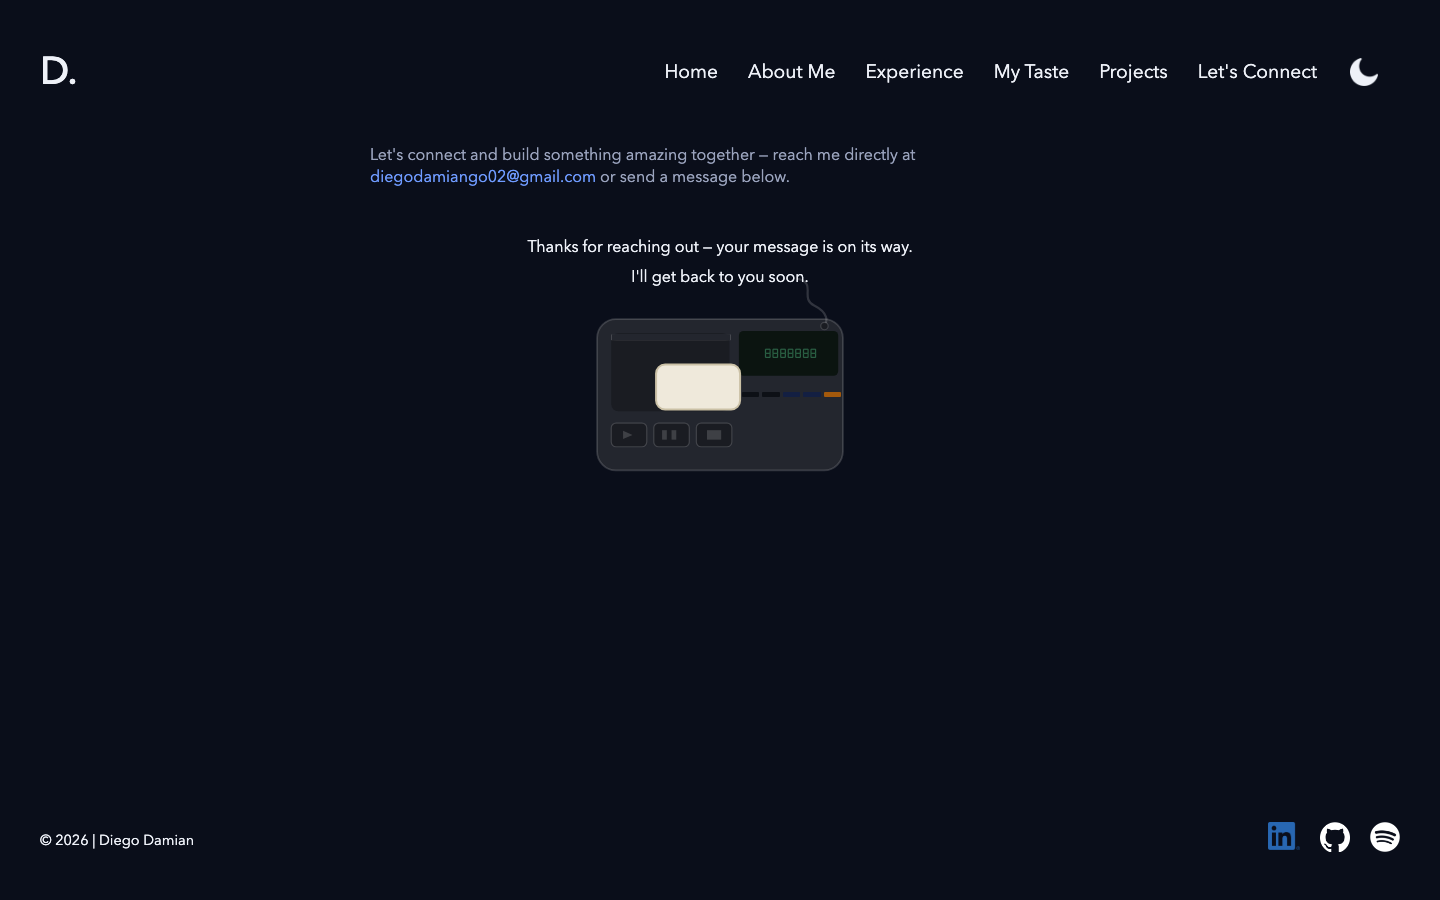
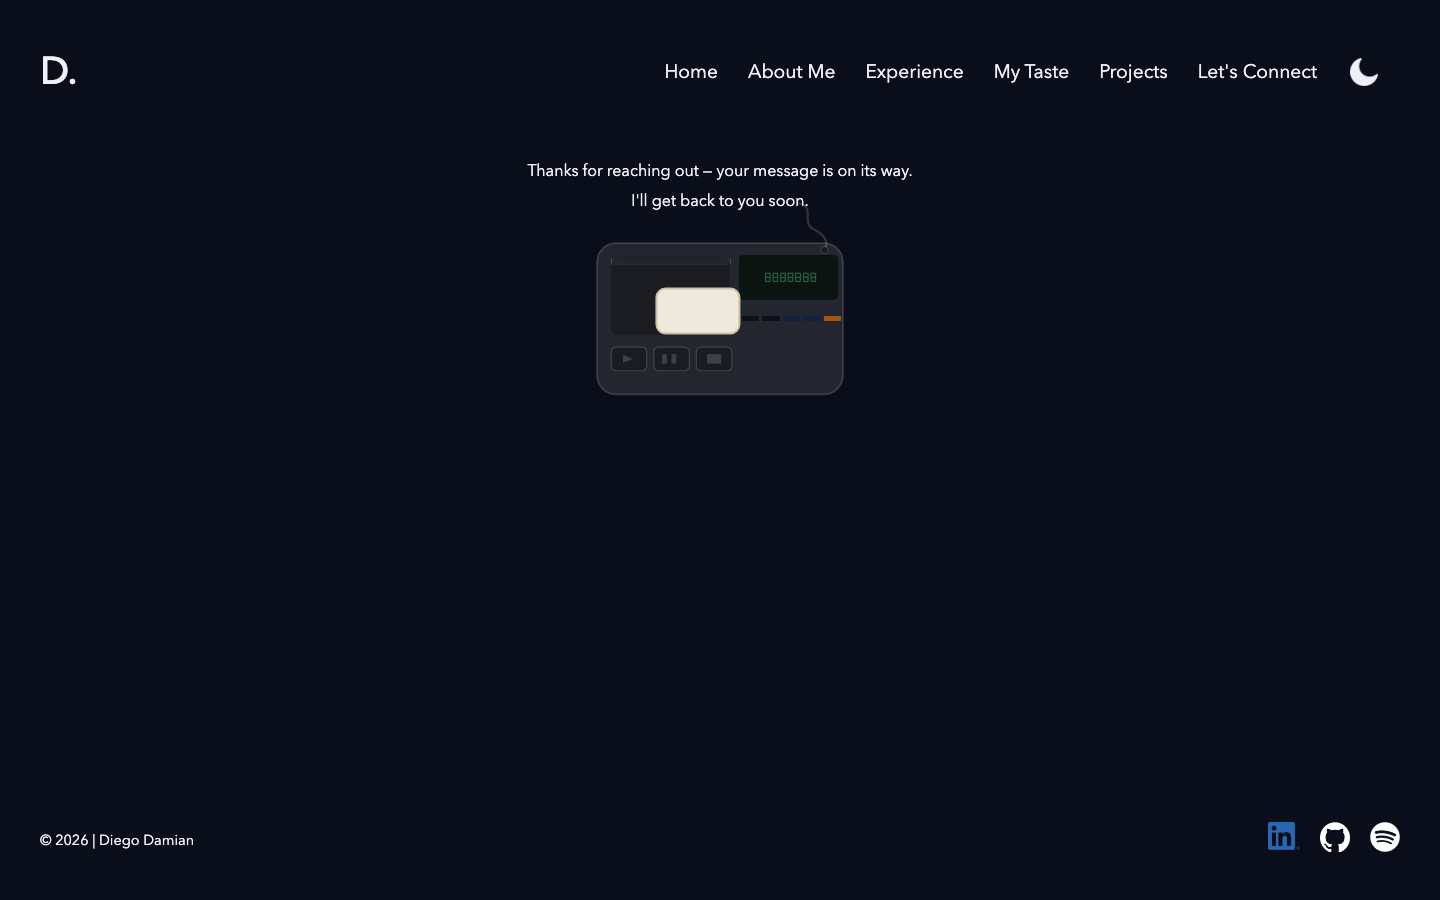
fix: #connect heading copy, entry-pin dead-scroll, textarea overflow (Stage 3 Task 12.2)
- Heading: "Let's have a coffee talk" -> "Let's Connect"; description
  paragraph (and its mailto: link) removed entirely, no replacement copy.
  Its SplitText step in the entry-pin reveal removed too, not just hidden.
  While touching .contact-title: margin-bottom 1rem -> --space-6 (heading
  now stands alone), and fixed the long-flagged font-weight: 60 -> 600 typo.

- B41: the entry-pin's ScrollTrigger had no explicit `end`, defaulting to
  the trigger's own full height and leaving .contact-section visually
  pinned for ~938px of dead scroll after the reveal had already finished
  and lenis.start() had already resumed input -- measured directly
  (scrollY vs. the section's own bounding rect on every tick). My Taste's
  own pin, the pattern this section's comments already credit, sets
  `end: "+=200"` for exactly this reason; this section never copied it.
  Fixed by adding the same value. Dead scroll now ~340px (the genuinely
  expected remainder, not a leftover bug).

- B42: .message-cassette textarea rendered 24px wider than its own
  cassette container -- no global box-sizing: border-box reset exists in
  this file, so width: 100% plus the textarea's own padding overflowed the
  box by exactly that padding, worse after Task 12.1's own padding
  increase (a smaller version of the same bug existed since Task 12
  shipped). Fixed with one line; the focus outline now sits fully inside
  the cassette on every side.
[…]

Changed region(s): [[0.25, 0.1556, 0.625, 0.5289]]

diff --git a/client/src/sections/connect.jsx b/client/src/sections/connect.jsx
@@ -114,7 +114,6 @@ export default function Connect() {
     const rootRef = useRef(null);
     const containerRef = useRef(null);
     const titleRef = useRef(null);
-    const descriptionRef = useRef(null);
     const cassetteRef = useRef(null);
     const flightRef = useRef(null);
     const walkmanRootRef = useRef(null);
@@ -182,13 +181,6 @@ export default function Connect() {
 
         mm.add('(prefers-reduced-motion: no-preference)', () => {
             const titleSplit = new SplitText(titleRef.current, { type: 'words' });
-            // type: "words" — same reasoning My Taste's own kicker comment
-            // gives: this description's text nodes wrap an inline
-            // `<a href="mailto:...">`; word-splitting only touches TEXT,
-            // leaving the link's own element untouched (still one real,
-            // clickable `<a>` after SplitText reverts), rather than risking
-            // "lines" or "chars" tearing into or duplicating it.
-            const descriptionSplit = new SplitText(descriptionRef.current, { type: 'words' });
             // The compose box, batched as one stagger group rather than
             // individually SplitText'd — these are form CONTROLS, not text
             // to fragment. `.contact-hp` (the honeypot) is deliberately
@@ -222,8 +214,7 @@ export default function Connect() {
             // SIGNATURE_EASE curve every calm, one-time entrance on this
             // site already shares.
             tl.from(titleSplit.words, { opacity: 0, y: 16, duration: 0.5, ease: SIGNATURE_EASE, stagger: 0.06 }, 0);
-            tl.from(descriptionSplit.words, { opacity: 0, y: 12, duration: 0.4, ease: SIGNATURE_EASE, stagger: 0.02 }, '>+=0.2');
-            tl.from(formTargets, { opacity: 0, y: 14, duration: 0.4, ease: SIGNATURE_EASE, stagger: 0.08 }, '>+=0.25');
+            tl.from(formTargets, { opacity: 0, y: 14, duration: 0.4, ease: SIGNATURE_EASE, stagger: 0.08 }, '>+=0.2');
 
             const navbarHeight = () =>
                 parseFloat(getComputedStyle(document.documentElement).getPropertyValue('--navbar-height')) || 0;
@@ -235,6 +226,22 @@ export default function Connect() {
                 // Taste/Experience) — keeps a nav click landing on #connect
                 // and this pin's own engage point in sync.
                 start: () => 'top top+=' + navbarHeight(),
+                // Missing here originally — found live (measured: after the
+                // hold released, .contact-section stayed visually pinned for
+                // ~940px of further scroll before it would budge at all, the
+                // real cause of "all the space" between #projects and a
+                // usable #connect). Root cause: `pin: true` with no explicit
+                // `end` defaults to the trigger's own full height as the pin
+                // span, but nothing here scrubs against that span — the hold
+                // is timed via lenis.stop()/start() below, same as My
+                // Taste's own pin (my-taste.jsx). My Taste's own version
+                // already sets `end: "+=200"` for exactly this reason (its
+                // own comment: wide enough that a fast scroll can't jump the
+                // start-to-end span in one tick and skip onEnter entirely,
+                // not a hold-duration control) — this pin copied `pin: true`
+                // from that pattern but dropped the `end` that comes with
+                // it. Same fix, same value.
+                end: '+=200',
                 pin: true,
                 // Plays once per page view, same as About/My Taste's own
                 // hold — replaying a scroll-hold every time a visitor
@@ -256,7 +263,7 @@ export default function Connect() {
 
                     // Same safety net About's own hold carries: measured
                     // against the CONTAINER's real content height
-                    // (title + description + form), not the outer
+                    // (title + form, no description anymore), not the outer
                     // .contact-section shell — that shell is deliberately
                     // taller than its content on most viewports (flex-
                     // centered inside a navbar-aware min-height floor, see
@@ -319,7 +326,6 @@ export default function Connect() {
                 st.kill();
                 tl.kill();
                 titleSplit.revert();
-                descriptionSplit.revert();
             };
         });
 
@@ -583,11 +589,7 @@ export default function Connect() {
                 read it — that's a one-time scroll-entry transition, unrelated
                 to send state. */}
             <div className="contact-container" data-state={status} ref={containerRef}>
-                <h2 className="contact-title" ref={titleRef}>Let&apos;s have a coffee talk</h2>
-                <p className="contact-description" ref={descriptionRef}>
-                    Let&apos;s connect and build something amazing together — reach me directly at{' '}
-                    <a href="mailto:diegodamiango02@gmail.com">diegodamiango02@gmail.com</a> or send a message below.
-                </p>
+                <h2 className="contact-title" ref={titleRef}>Let&apos;s Connect</h2>
 
                 {status === 'sent' ? (
                     <div className="contact-success" role="status">

diff --git a/client/src/styles/main.scss b/client/src/styles/main.scss
@@ -3354,19 +3354,18 @@ html {
 
 .contact-title {
   font-size: 2.5rem;
-  font-weight: 60;
-  margin-bottom: 1rem;
+  // Was `60` — a typo for `600` already flagged in ROADMAP.md/STATUS.md
+  // (Stage 3 Q1/Q4 notes) but never actually corrected until now. Fixing
+  // it here since this heading carries more visual weight on its own now
+  // that .contact-description is gone (below).
+  font-weight: 600;
+  // Was 1rem, tuned for a heading sitting right above a description
+  // paragraph. With that paragraph removed, the form now sits directly
+  // under the heading — 1rem read as cramped, so this grew to
+  // `--space-6`, the same margin-bottom `@mixin section-title` (used by
+  // `.portfolio-title`) already gives a standalone section heading.
+  margin-bottom: var(--space-6);
   text-align: center;
-}
-
-.contact-description {
-  font-size: 1rem;
-  margin-bottom: 3rem;
-  color: var(--secondary-text);
-}
-
-.contact-description a {
-  color: var(--accent);
 }
 
 .contact-form {
@@ -3593,6 +3592,15 @@ html {
 .message-cassette textarea {
   display: block;
   width: 100%;
+  // No global box-sizing reset exists in this file (opt-in per rule — see
+  // .portfolio-section's own comment on the same pattern). Without this,
+  // `width: 100%` resolves against the cassette's own content-box width,
+  // and this element's OWN padding (below) is added ON TOP of that —
+  // measured live: the textarea rendered 24px wider than `.message-
+  // cassette` itself (exactly 2x its own horizontal padding), visibly
+  // overflowing the cassette's right edge, worse still once the focus
+  // outline added its own few px on top of that.
+  box-sizing: border-box;
   background: transparent;
   color: var(--cassette-label-text);
   border: none;

diff --git a/design-review/STATUS.md b/design-review/STATUS.md
@@ -1,6 +1,6 @@
 # Project Status — diegodamian.com
 
-**Updated:** 2026-08-23 (Stage 3 Task 12.1) · **HEAD:** `2f6d11f`+ · **Live:** https://diegodamian.com
+**Updated:** 2026-08-23 (Stage 3 Task 12.2) · **HEAD:** `913169a`+ · **Live:** https://diegodamian.com
 
 Companion to [`FINDINGS.md`](./FINDINGS.md) (design analysis) and
 [`ROADMAP.md`](./ROADMAP.md) (order of work). This file covers **where the project
@@ -2787,6 +2787,66 @@ flagged here rather than silently trusted. `npm run build`: JS 525.44 ->
 -> **10.56 kB** gz) — negligible, as expected for a layout/copy pass with no
 new dependencies.
 
+### Stage 3 Task 12.2 — `#connect`: heading copy, dead-scroll fix, textarea overflow fix *(2026-08-23)*
+
+A second decimal follow-up on Task 12's own feature (sibling to 12.1, same
+convention as 10.1/10.2 both being decimals off Task 10 rather than 12.1
+growing a sub-decimal of its own). Re-read `connect.jsx`/`main.scss` fresh
+rather than assuming Task 12.1 was the last word on this section.
+
+**Copy:** `.contact-title` — "Let's have a coffee talk" -> "Let's Connect."
+`.contact-description` (the paragraph under it, including the inline
+`mailto:` link) removed entirely, per direct instruction — no replacement
+copy added. Its own `SplitText` step in the entry-pin's reveal timeline
+(`descriptionSplit`) is gone too, not just hidden — `titleSplit` now hands
+off straight to the form. `.contact-title`'s own `margin-bottom` grew
+`1rem` -> `--space-6` (32px) since the heading now sits directly above the
+form with nothing bridging the gap — `1rem` read as cramped alone. While
+in that rule: fixed `font-weight: 60` -> `600`, a typo already flagged in
+ROADMAP.md/STATUS.md (Q1/Q4 notes) as "almost certainly a dropped digit"
+but never actually corrected until this pass touched the same line.
+
+**B41 — the real "space between projects and Connect" (`FINDINGS.md` B41):**
+this section's entry-pin `ScrollTrigger.create` never set an explicit
+`end`; with none given, GSAP defaults the pin span to the trigger's own
+full height (~916px), so the section stayed visually pinned for that whole
+span even after the reveal timeline finished and `lenis.start()` already
+resumed real scroll input. Measured directly (scrollY vs. the section's
+own `getBoundingClientRect().top` on every scroll tick): **938px of dead
+scroll** before the page would budge at all. My Taste's own pin — the
+pattern this section's comments already credit — sets `end: "+=200"` for
+an unrelated reason (protecting `onEnter` from a fast-scroll momentum jump
+skipping past a too-thin span, not controlling hold duration); this
+section copied `pin: true` from that pattern but not the `end` that comes
+with it. Fixed by adding the same `end: '+=200'`. Re-measured: dead scroll
+dropped to ~340px (the real, expected distance to scroll the now-revealed
+section out of view — not a leftover bug).
+
+**B42 — the message box's own border rendering bigger than the box
+(`FINDINGS.md` B42):** `.message-cassette textarea` sets `width: 100%`
+without opting into `box-sizing: border-box` (no global reset exists in
+this file — `.portfolio-section`'s own comment documents the identical
+gotcha independently). Under the default `content-box` model the
+textarea's own padding is added ON TOP of that 100%, not carved from it —
+measured 704px rendered against a 700px-wide cassette, a 14px overflow
+before the focus outline even drew its own few px on top. This was already
+a smaller version of the same bug since Task 12 shipped (16px overflow at
+the original 8px padding) — Task 12.1's own padding increase (8px -> 12px)
+made it worse, not new. Fixed with one line (`box-sizing: border-box`);
+re-measured textarea width now matches the cassette's own 680px
+content-box exactly, confirmed via a 2x-scale screenshot that the focus
+outline sits fully inside the cassette on every side.
+
+**Verification:** same dev pair (5173/5050), same human-paced scroll (D17
+re-confirmed still pre-existing, hit once more under this task's own
+testing, unrelated). Full send sequence re-run end to end (walkman still
+pops, "CHEERS!" still resolves), reduced-motion path re-run (still
+resolves instantly, no scramble). `npm run lint`: **7 errors, 2 warnings**,
+unchanged. `npm run build`: JS 525.49 -> **525.08 kB** (187.22 ->
+**187.07 kB** gz), CSS 50.17 -> **50.08 kB** (10.56 -> **10.54 kB** gz) — a
+net decrease, expected: this pass removed more markup/CSS (the description
+paragraph and its two rules, the SplitText step) than the fixes added.
+
 ### Stage 4 (`#my-taste`) — task numbering, consolidated
 
 The dated entries below run 1 → 2 → 2.5 → 3 → 3.5 → 3.6 → 3.8 → 3.7 → 3.7 follow-up →
@@ -3974,8 +4034,8 @@ crate too, not just `#my-taste`.
 |---|---|---|
 | Deploy size | 152 MB | **9.6 MB** |
 | Images | 11 MB | **1.7 MB** |
-| JS bundle | 407 KB / 147 KB gz | **525.49 kB / 187.22 kB gz** *(+21 kB / +7.5 kB gz vs. pre-Stage-3-Task-10 baseline — GSAP `Flip`, first use; Tasks 10.1/11/10.2/11.2/12/12.1 added +6.72 kB / +2.09 kB gz combined on top, almost all of it Task 12's own walkman sequence — 12.1 itself added ~0.05 kB, a layout/copy pass with no new dependency)* |
-| CSS bundle | 26.96 kB / 5.99 kB gz | **50.17 kB / 10.56 kB gz** *(Task 12 added +4.05 kB / +0.90 kB gz for the cassette/walkman rules; 12.1's own field/textarea rebalance added +0.08 kB / +0.02 kB gz on top. The two self-hosted DSEG7 font files, ~9.6 kB combined woff2+woff, are separate font assets, not counted in this CSS number)* |
+| JS bundle | 407 KB / 147 KB gz | **525.08 kB / 187.07 kB gz** *(+21 kB / +7.5 kB gz vs. pre-Stage-3-Task-10 baseline — GSAP `Flip`, first use; Tasks 10.1/11/10.2/11.2/12/12.1/12.2 added +6.31 kB / +1.94 kB gz combined on top, almost all of it Task 12's own walkman sequence — 12.2 itself is a net DECREASE, ~0.41 kB, since it removed more than it added: the description paragraph, its two CSS rules and its `SplitText` step)* |
+| CSS bundle | 26.96 kB / 5.99 kB gz | **50.08 kB / 10.54 kB gz** *(Task 12 added +4.05 kB / +0.90 kB gz for the cassette/walkman rules; 12.1 added +0.08 kB / +0.02 kB gz; 12.2 removed the two now-dead `.contact-description` rules, a net -0.09 kB. The two self-hosted DSEG7 font files, ~9.6 kB combined woff2+woff, are separate font assets, not counted in this CSS number)* |
 | ESLint errors | 21 | **7** *(+2 warnings, both `vinyl-record.jsx` — expected, see Stage 4 Tasks 1 and 3.6)* |
 | `.git` size | 91 MB | **177 MB** *(grew, not unchanged — re-measured, not assumed stale. This session alone added many commits with binary screenshot diffs, each one a new object in history regardless of the PNG file's own current size. Strengthens, not just restates, the case for the Stage 8 history rewrite — see ROADMAP.md §0/§3, now also motivated by the resume PDF's privacy removal, not size alone)* |
 

diff --git a/design-review/FINDINGS.md b/design-review/FINDINGS.md
@@ -1806,6 +1806,65 @@ against a 103px-wide screen box (comfortable margin, not a near-miss), and
 the ghost layer (derived automatically from the same string) lines up
 character-for-character as designed.
 
+### B41 — `#connect`'s entry pin had no explicit `end`, leaving ~940px of dead scroll after the reveal released — **FOUND AND FIXED, Stage 3 Task 12.2**
+
+Reported as "all the space in between projects and Let's Connect." Measured
+directly rather than guessed: scrolled to `#connect`, let the entry-pin
+reveal finish, then sampled `.contact-section`'s own `getBoundingClientRect().top`
+against `window.scrollY` on every following scroll tick. `top` stayed
+pinned at a constant value (`navbarHeight`, ~144px) while `scrollY` climbed
+from 6534 to 7472 — **938px of scroll where the section visually never
+moved at all**, well after the reveal timeline itself had already
+completed and `lenis.start()` had already resumed real scroll input.
+
+Root cause: this pin's `ScrollTrigger.create({ ... pin: true, once: true,
+... })` (`connect.jsx`) never set an explicit `end`. With none given, GSAP
+defaults the pin's own scroll-span to the trigger element's full height —
+here, `.contact-section`'s own ~916px — so ScrollTrigger kept the section
+visually pinned for that entire span regardless of the fact that nothing
+in this pin scrubs against it; the hold's real duration is governed
+entirely by `lenis.stop()`/`lenis.start()`, independent of `end`. My
+Taste's own pin (`my-taste.jsx`), which this section's comments already
+credit as the pattern being followed, sets `end: "+=200"` for exactly this
+reason (its own comment: wide enough that a fast scroll can't jump the
+`start`-to-`end` span in one tick and skip `onEnter` entirely — not a
+hold-duration control). This section copied `pin: true` from that pattern
+but never copied the `end` that comes with it.
+
+Fixed by adding the same `end: '+=200'`. Re-measured with the identical
+method: the dead zone dropped from ~938px to ~340px (the remaining
+distance is real, expected scroll — clearing the now-revealed section
+before the next one comes into view — not a leftover bug). Re-verified the
+pin still engages correctly under normal scroll and still resolves
+instantly under a programmatic nav-click (`isProgrammaticScrollActive()`),
+neither of which reads `end` for anything.
+
+### B42 — `.message-cassette textarea` overflowed its own cassette by exactly its own padding — **FOUND AND FIXED, Stage 3 Task 12.2**
+
+Reported as "the border of the text box is bigger than the box itself"
+when focused. Measured directly: `.message-cassette` (the visible tape
+label) rendered 700px wide; `#message` (the textarea inside it) rendered
+**704px** wide — 14px past the cassette's own right edge before any
+outline was even drawn, then a further few px once the focus outline
+(`outline: 2px solid ...; outline-offset: 2px;`) drew outside that.
+
+Root cause: this file has no global `box-sizing: border-box` reset — it's
+opt-in per rule (`.portfolio-section`'s own comment documents the same
+gotcha independently). `.message-cassette textarea` sets `width: 100%`
+without opting in, so under the default `content-box` model, the
+textarea's own horizontal padding is added ON TOP of that 100% instead of
+being carved out of it — the overflow (24px, after Task 12.1's own padding
+increase from 8px to 12px a side) is exactly 2× the textarea's own
+horizontal padding. This was already a smaller version of the same bug
+since Task 12 shipped (2×8px = 16px overflow at the original padding);
+Task 12.1's padding increase made it worse, it didn't introduce it.
+
+Fixed with one line, `box-sizing: border-box;` on `.message-cassette
+textarea`. Re-measured: textarea width now matches the cassette's own
+680px content-box exactly, `overflowsRight`/`overflowsLeft` both `false`,
+and the focus outline now sits fully inside the cassette's own border on
+all sides (screenshotted at 2x device scale to confirm).
+
 ### D18 — two of three brief-reported walkman bugs did not reproduce; investigated rather than assumed, Stage 3 Task 12.1
 
 The same follow-up brief that led to B40 also reported two other bugs in

diff --git a/design-review/ROADMAP.md b/design-review/ROADMAP.md
@@ -11,7 +11,7 @@ starts from zero.
 
 ---
 
-## 0. Current state — quick summary *(updated 2026-08-23)*
+## 0. Current state — quick summary *(updated 2026-08-23, Stage 3 Task 12.2)*
 
 For anyone opening this file cold: the detailed stage-by-stage record below (§3)
 is the source of truth, but it's long. This section is the fast version —
@@ -248,6 +248,28 @@ and a ~2-second auto-revert — did not reproduce under direct testing
 code changed for either, and no mechanism in the code could produce them
 (`FINDINGS.md` D18). `STATUS.md`'s own Stage 3 Task 12.1 entry has the full
 writeup.
+
+**Also 2026-08-23 (Stage 3 Task 12.2) — `#connect`: heading copy, dead-
+scroll fix, textarea overflow fix:** a second decimal follow-up on Task
+12's own feature (sibling to 12.1, not a sub-decimal of it — same
+convention as 10.1/10.2 both being decimals off Task 10). Heading changed
+to "Let's Connect," the description paragraph under it (and its inline
+`mailto:` link) removed entirely per direct instruction, no replacement
+copy added. Two real, measured bugs found and fixed: the entry-pin's
+`ScrollTrigger` had no explicit `end`, defaulting to the trigger's own full
+height and leaving the section visually pinned for ~938px of dead scroll
+after the reveal had already finished and real scroll input had already
+resumed (`FINDINGS.md` B41) — My Taste's own pin, the pattern this section
+already claimed to follow, sets `end: "+=200"` for exactly this reason and
+this section never copied it; fixed by adding the same value, dead scroll
+now ~340px (the genuinely expected remainder). Separately, the message
+textarea rendered 24px wider than its own cassette container (`FINDINGS.md`
+B42) — no global `box-sizing: border-box` reset exists in
+this file, so `width: 100%` plus the textarea's own padding overflowed the
+box by exactly that padding; a smaller version of the same bug has existed
+since Task 12 shipped, Task 12.1's own padding increase just made it more
+visible. Fixed with one line. `STATUS.md`'s own Stage 3 Task 12.2 entry has
+the full writeup.
 
 **Not started yet, in the order the roadmap currently has them:**
 
@@ -1159,6 +1181,25 @@ Also here: migrate the About timeline's unthrottled scroll handler to `ScrollTri
 > once under an aggressive test pace, unrelated to this work, same finding
 > as Task 12 — avoided for the rest of verification at a human-like scroll
 > pace. `npm run lint` holds at 7 errors/2 warnings, unchanged.
+
+> **Stage 3 Task 12.2 is DONE — 2026-08-23.** A second decimal follow-up on
+> Task 12's own feature. Heading "Let's have a coffee talk" -> "Let's
+> Connect," the description paragraph and its `mailto:` link removed
+> entirely, no replacement copy. Two real bugs found and fixed: the entry
+> pin's `ScrollTrigger` had no explicit `end`, defaulting to the trigger's
+> own full height and leaving the section pinned for ~938px of dead scroll
+> after the reveal had already finished (`FINDINGS.md` B41) — fixed with
+> `end: '+=200'`, the same value My Taste's own pin (the pattern this
+> section claimed to follow) already uses, dead scroll now ~340px. The
+> message textarea rendered 24px wider than its own cassette container
+> (`FINDINGS.md` B42) — no global `box-sizing: border-box` reset exists in
+> this file, so `width: 100%` plus the textarea's own padding overflowed
+> the box; fixed with one line, re-measured to confirm the focus outline
+> now sits fully inside the cassette. Both measured directly (scrollY vs.
+> the section's own bounding rect; textarea rect vs. cassette rect), not
+> assumed from the brief's own description. `npm run lint` holds at 7
+> errors/2 warnings; `npm run build` is a net decrease (JS -0.41 kB, CSS
+> -0.09 kB) since this pass removed more than it added.
 
 ### Stage 4 — `#my-taste` redesign
 
